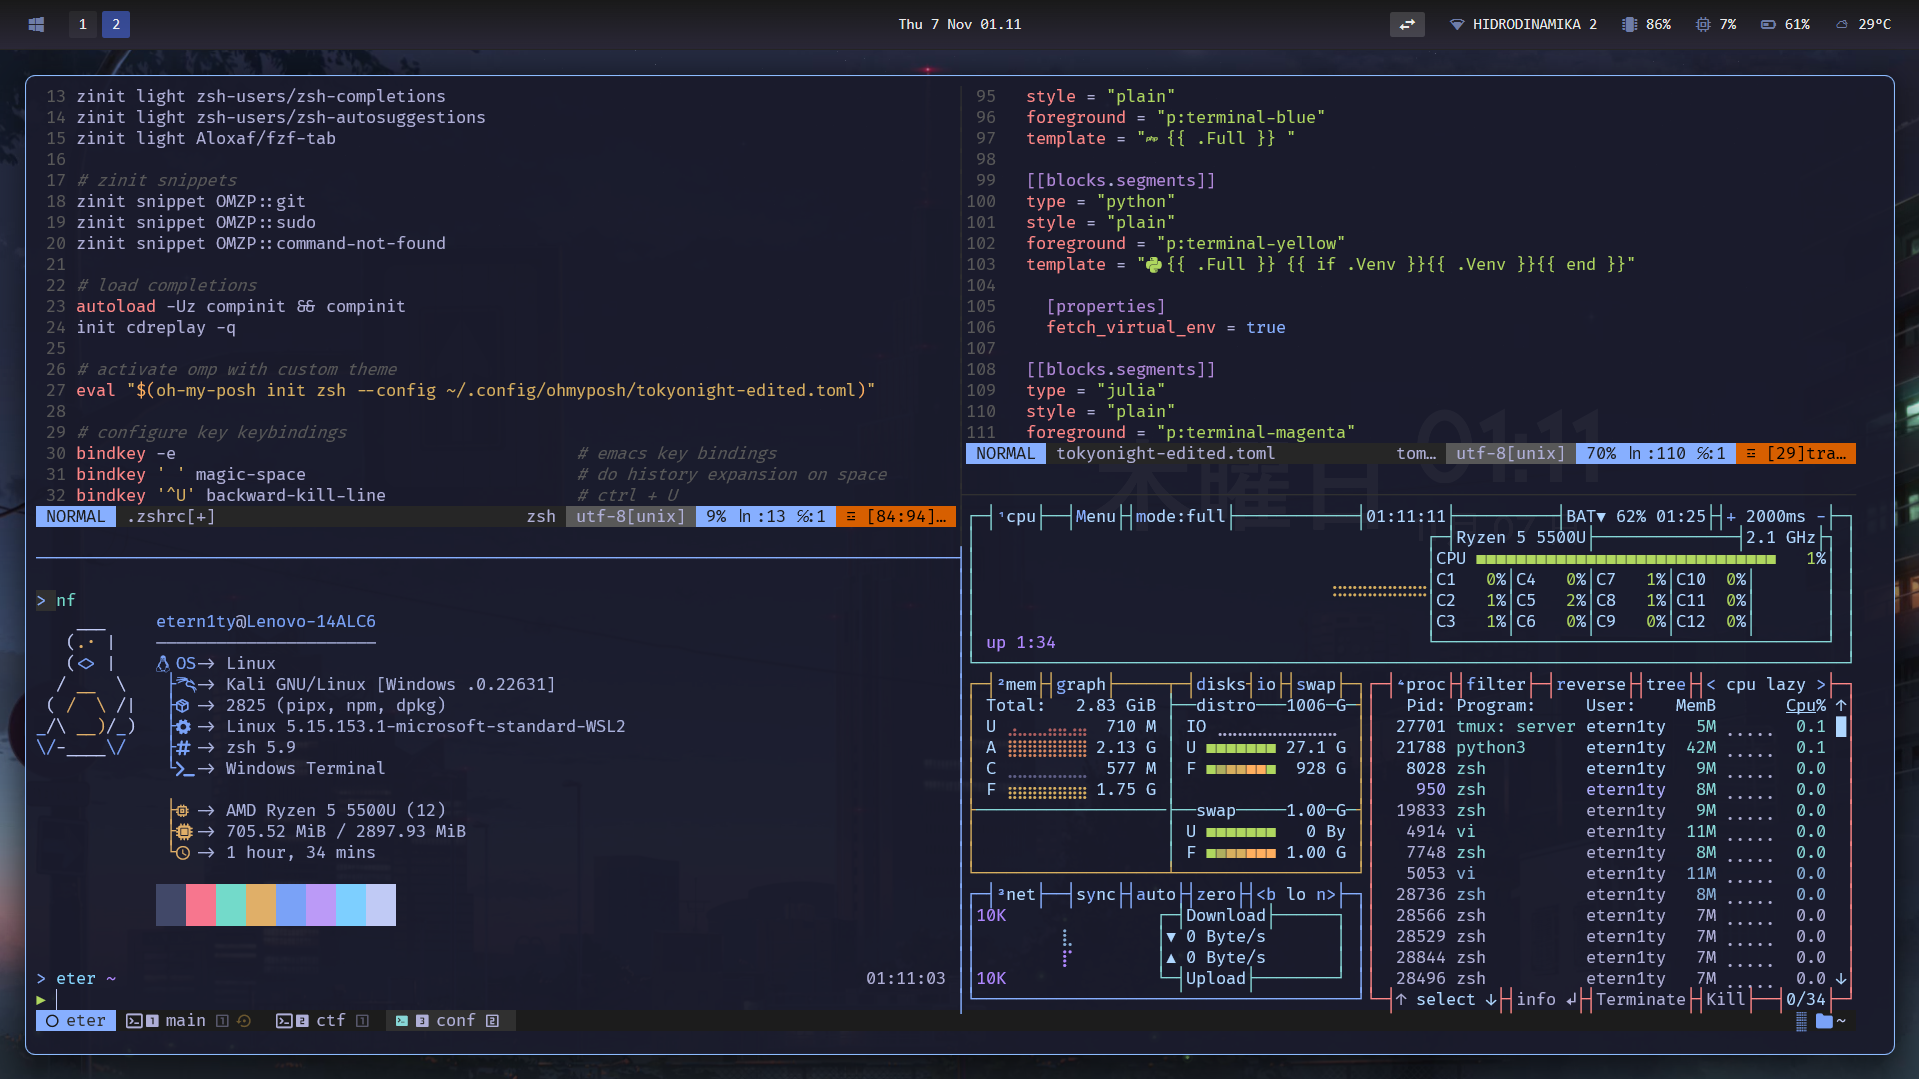
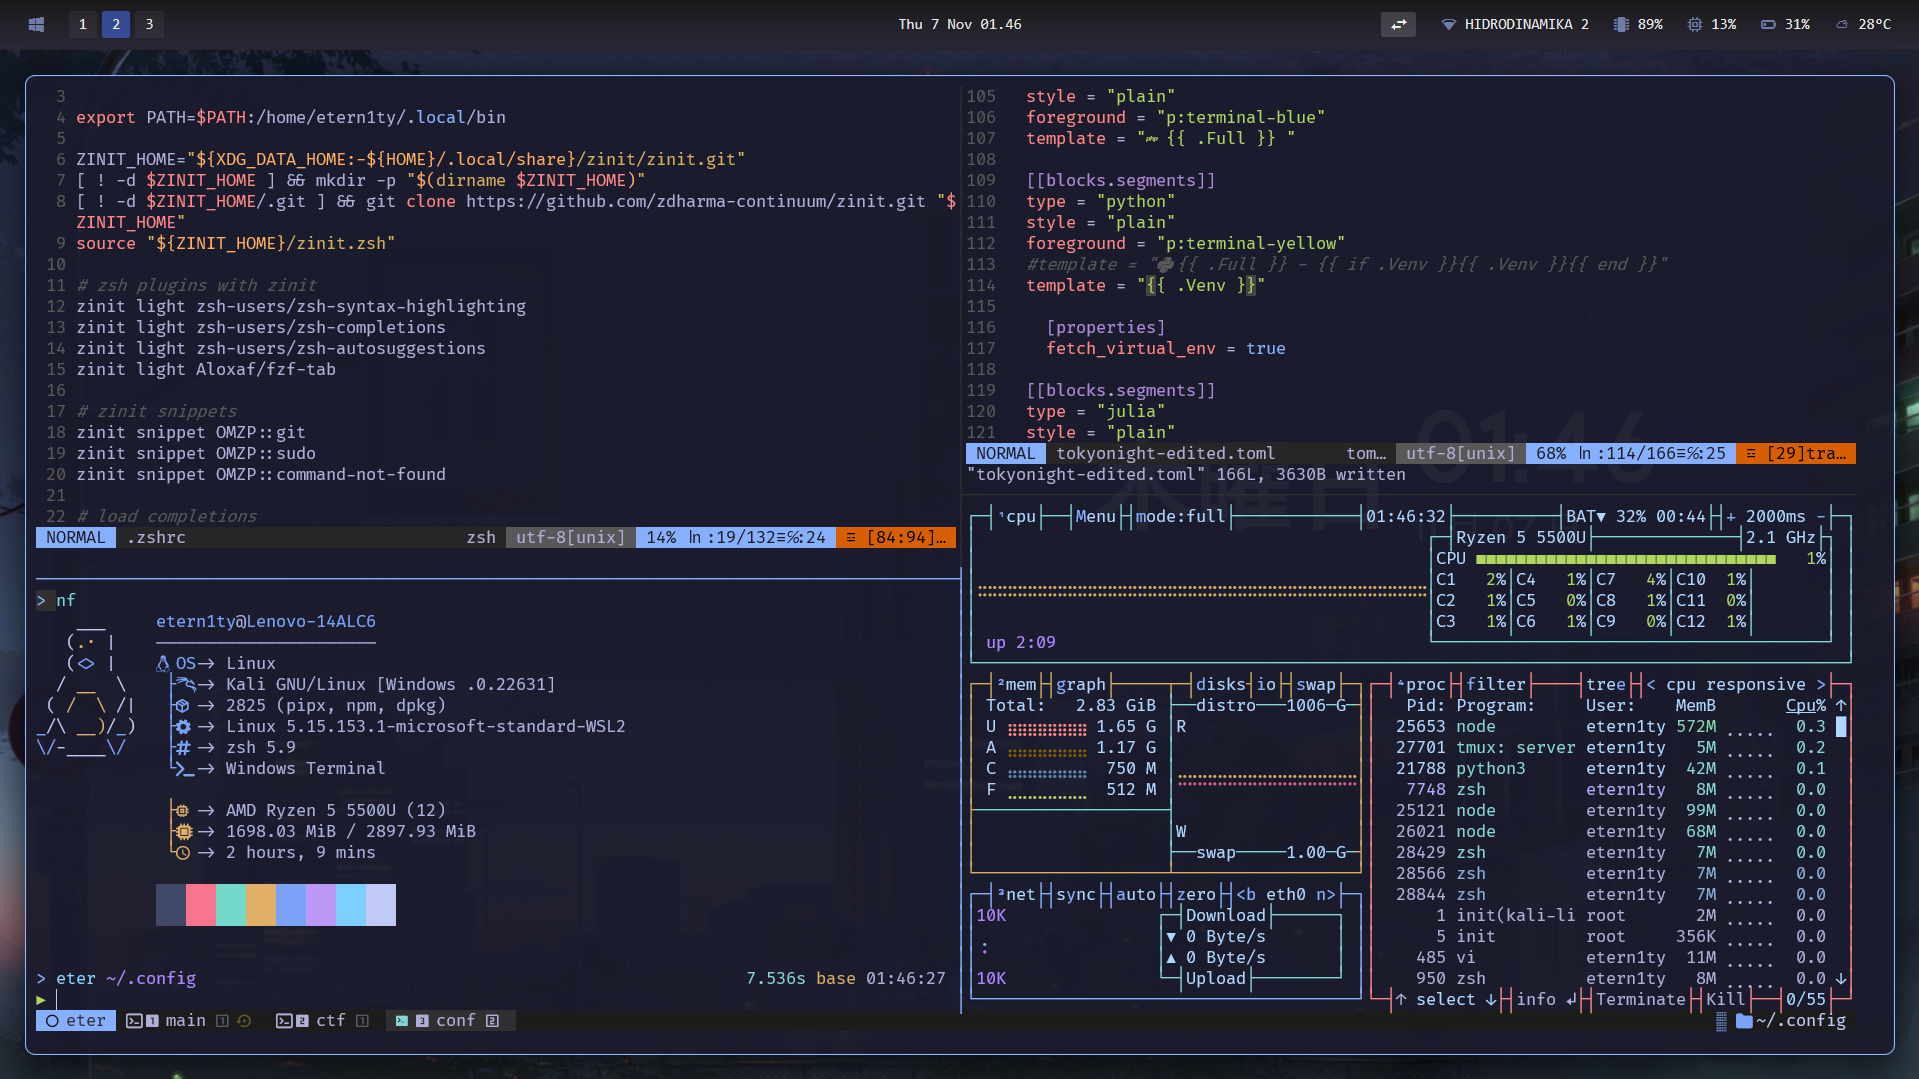
feat: exec time + clean up conda venv view

diff --git a/README.md b/README.md
@@ -6,8 +6,10 @@ Mainly consists of **Tokyo Night** color schemes/theming (omp - edited and termi
   - zinit - plugin manager
   - zoxide - better cd
 - oh-my-posh
-- vimrc
+- vimrcs
 - tmux
+- miniforge (for SageMath)
+
 - Windows Terminal 
   - FiraCode NF
 - GlazeWM w/ Zebar (defaults)
